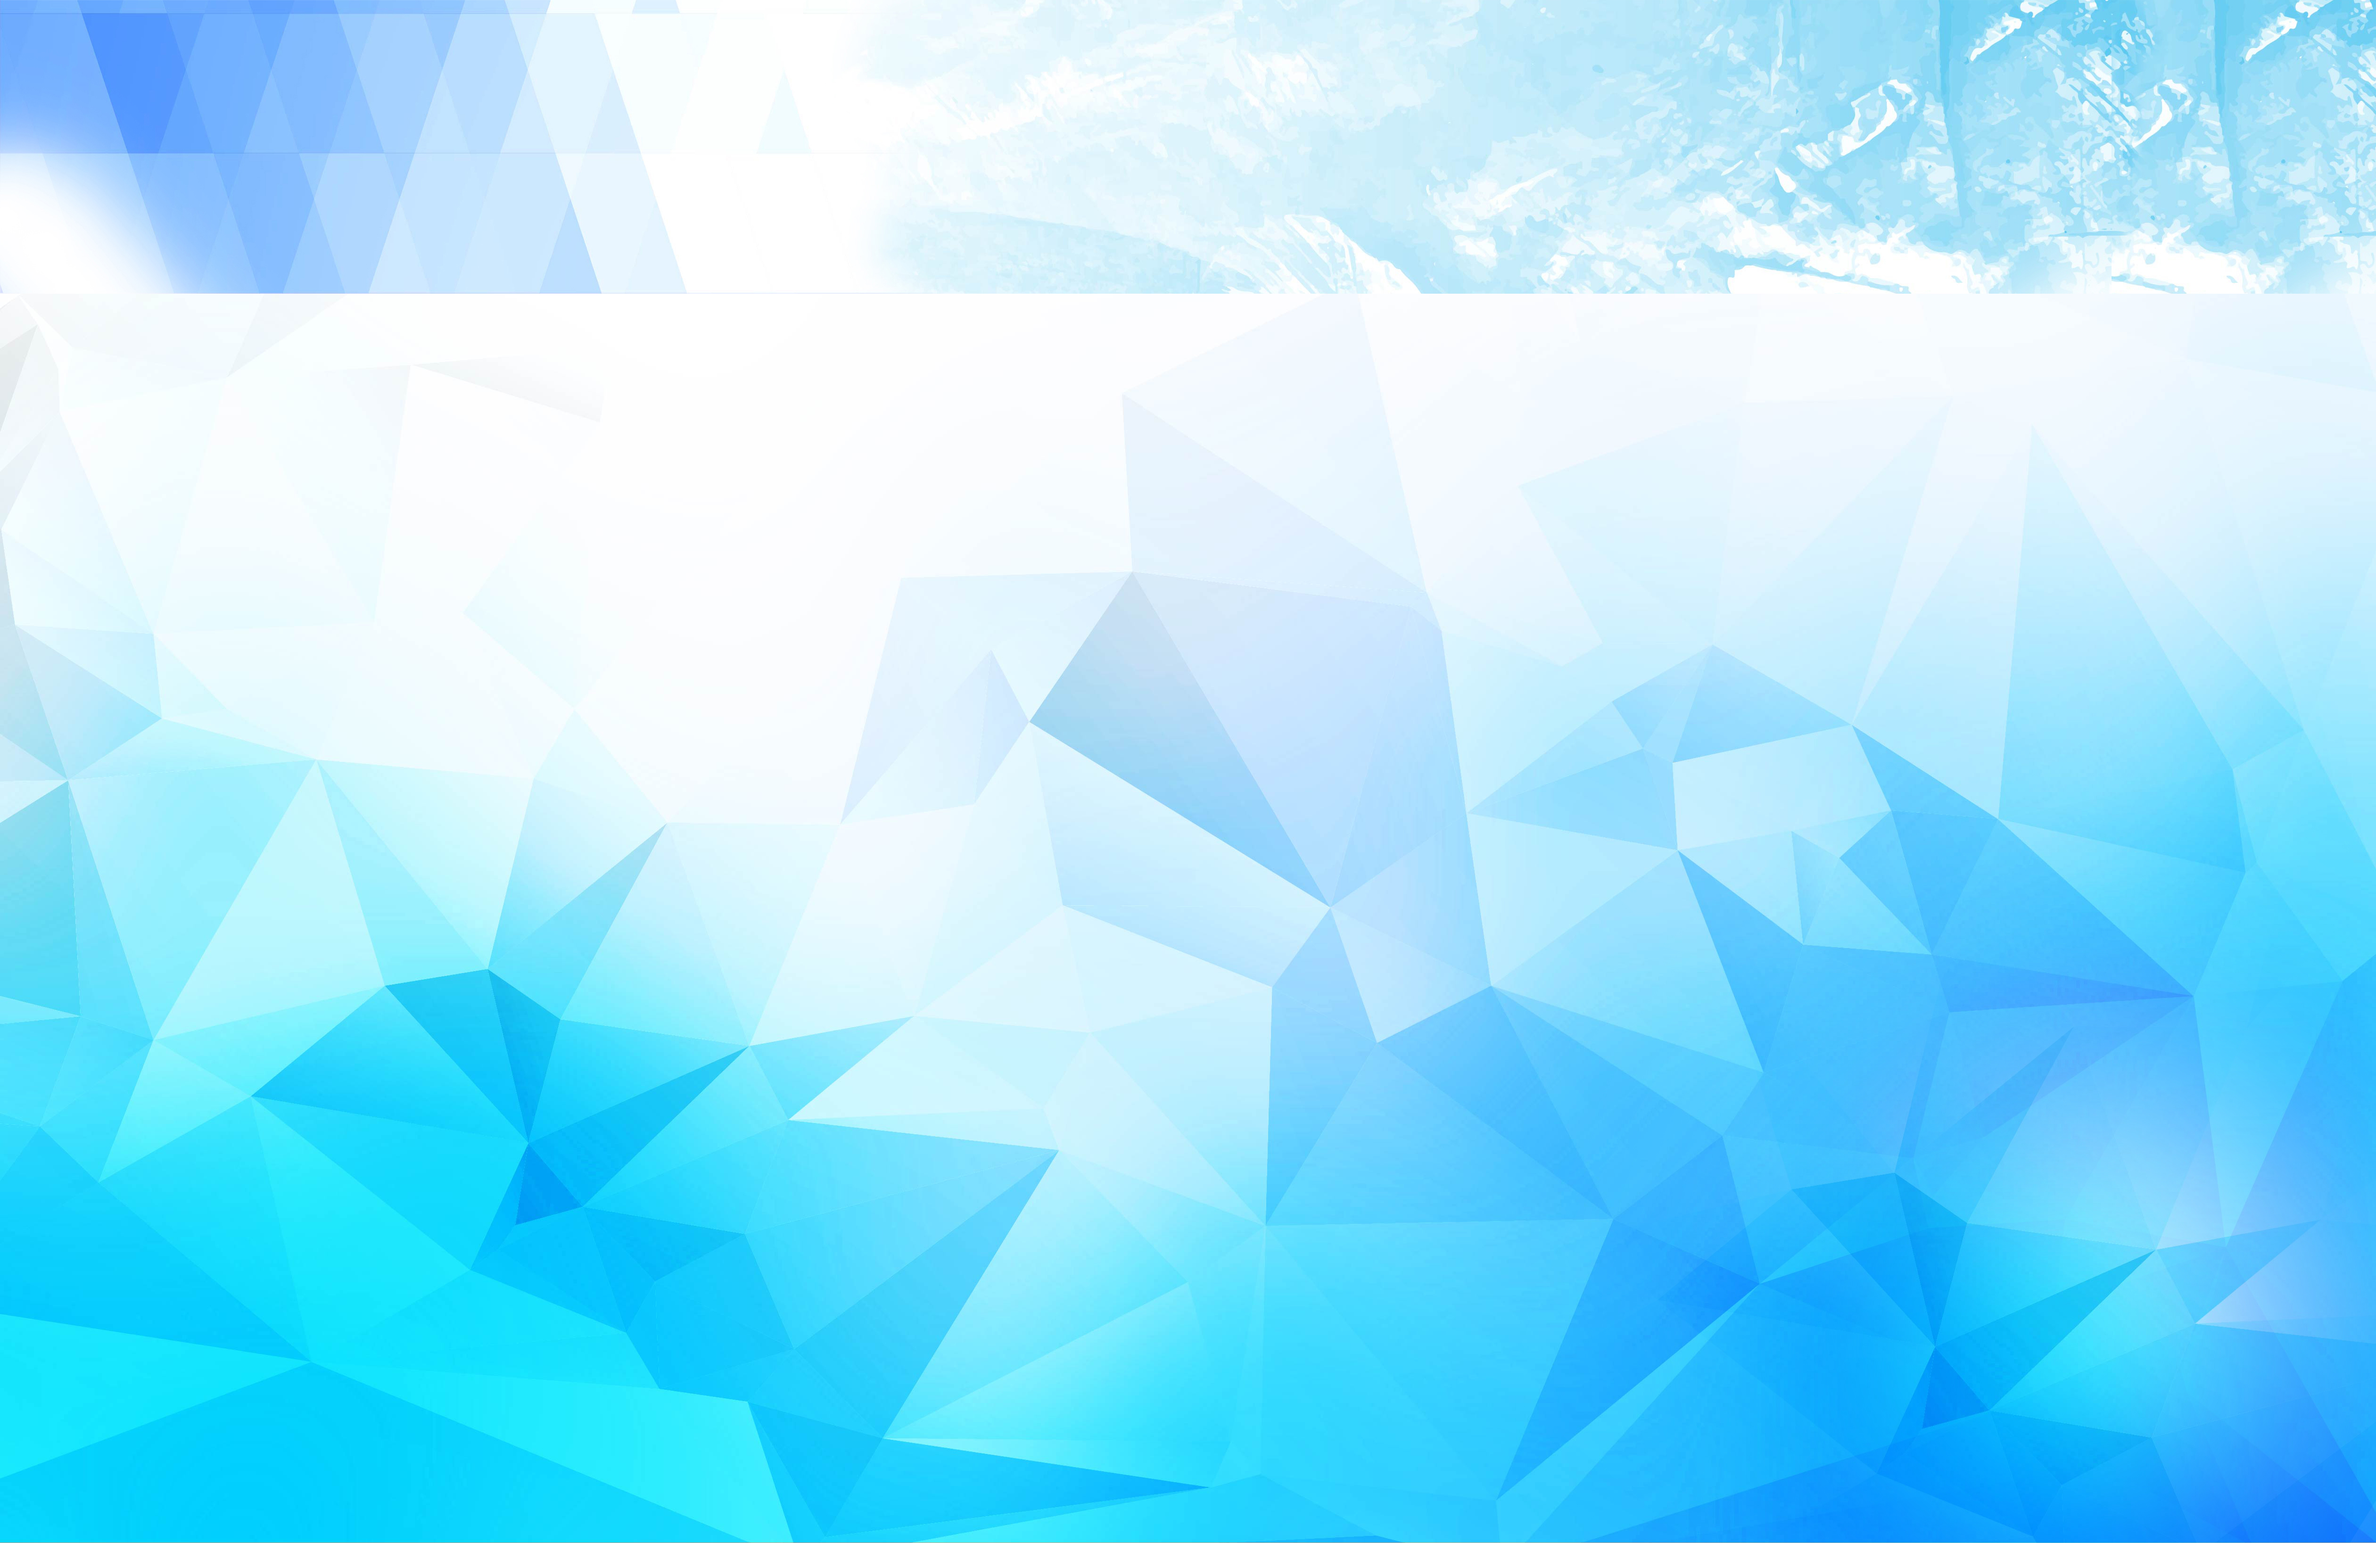
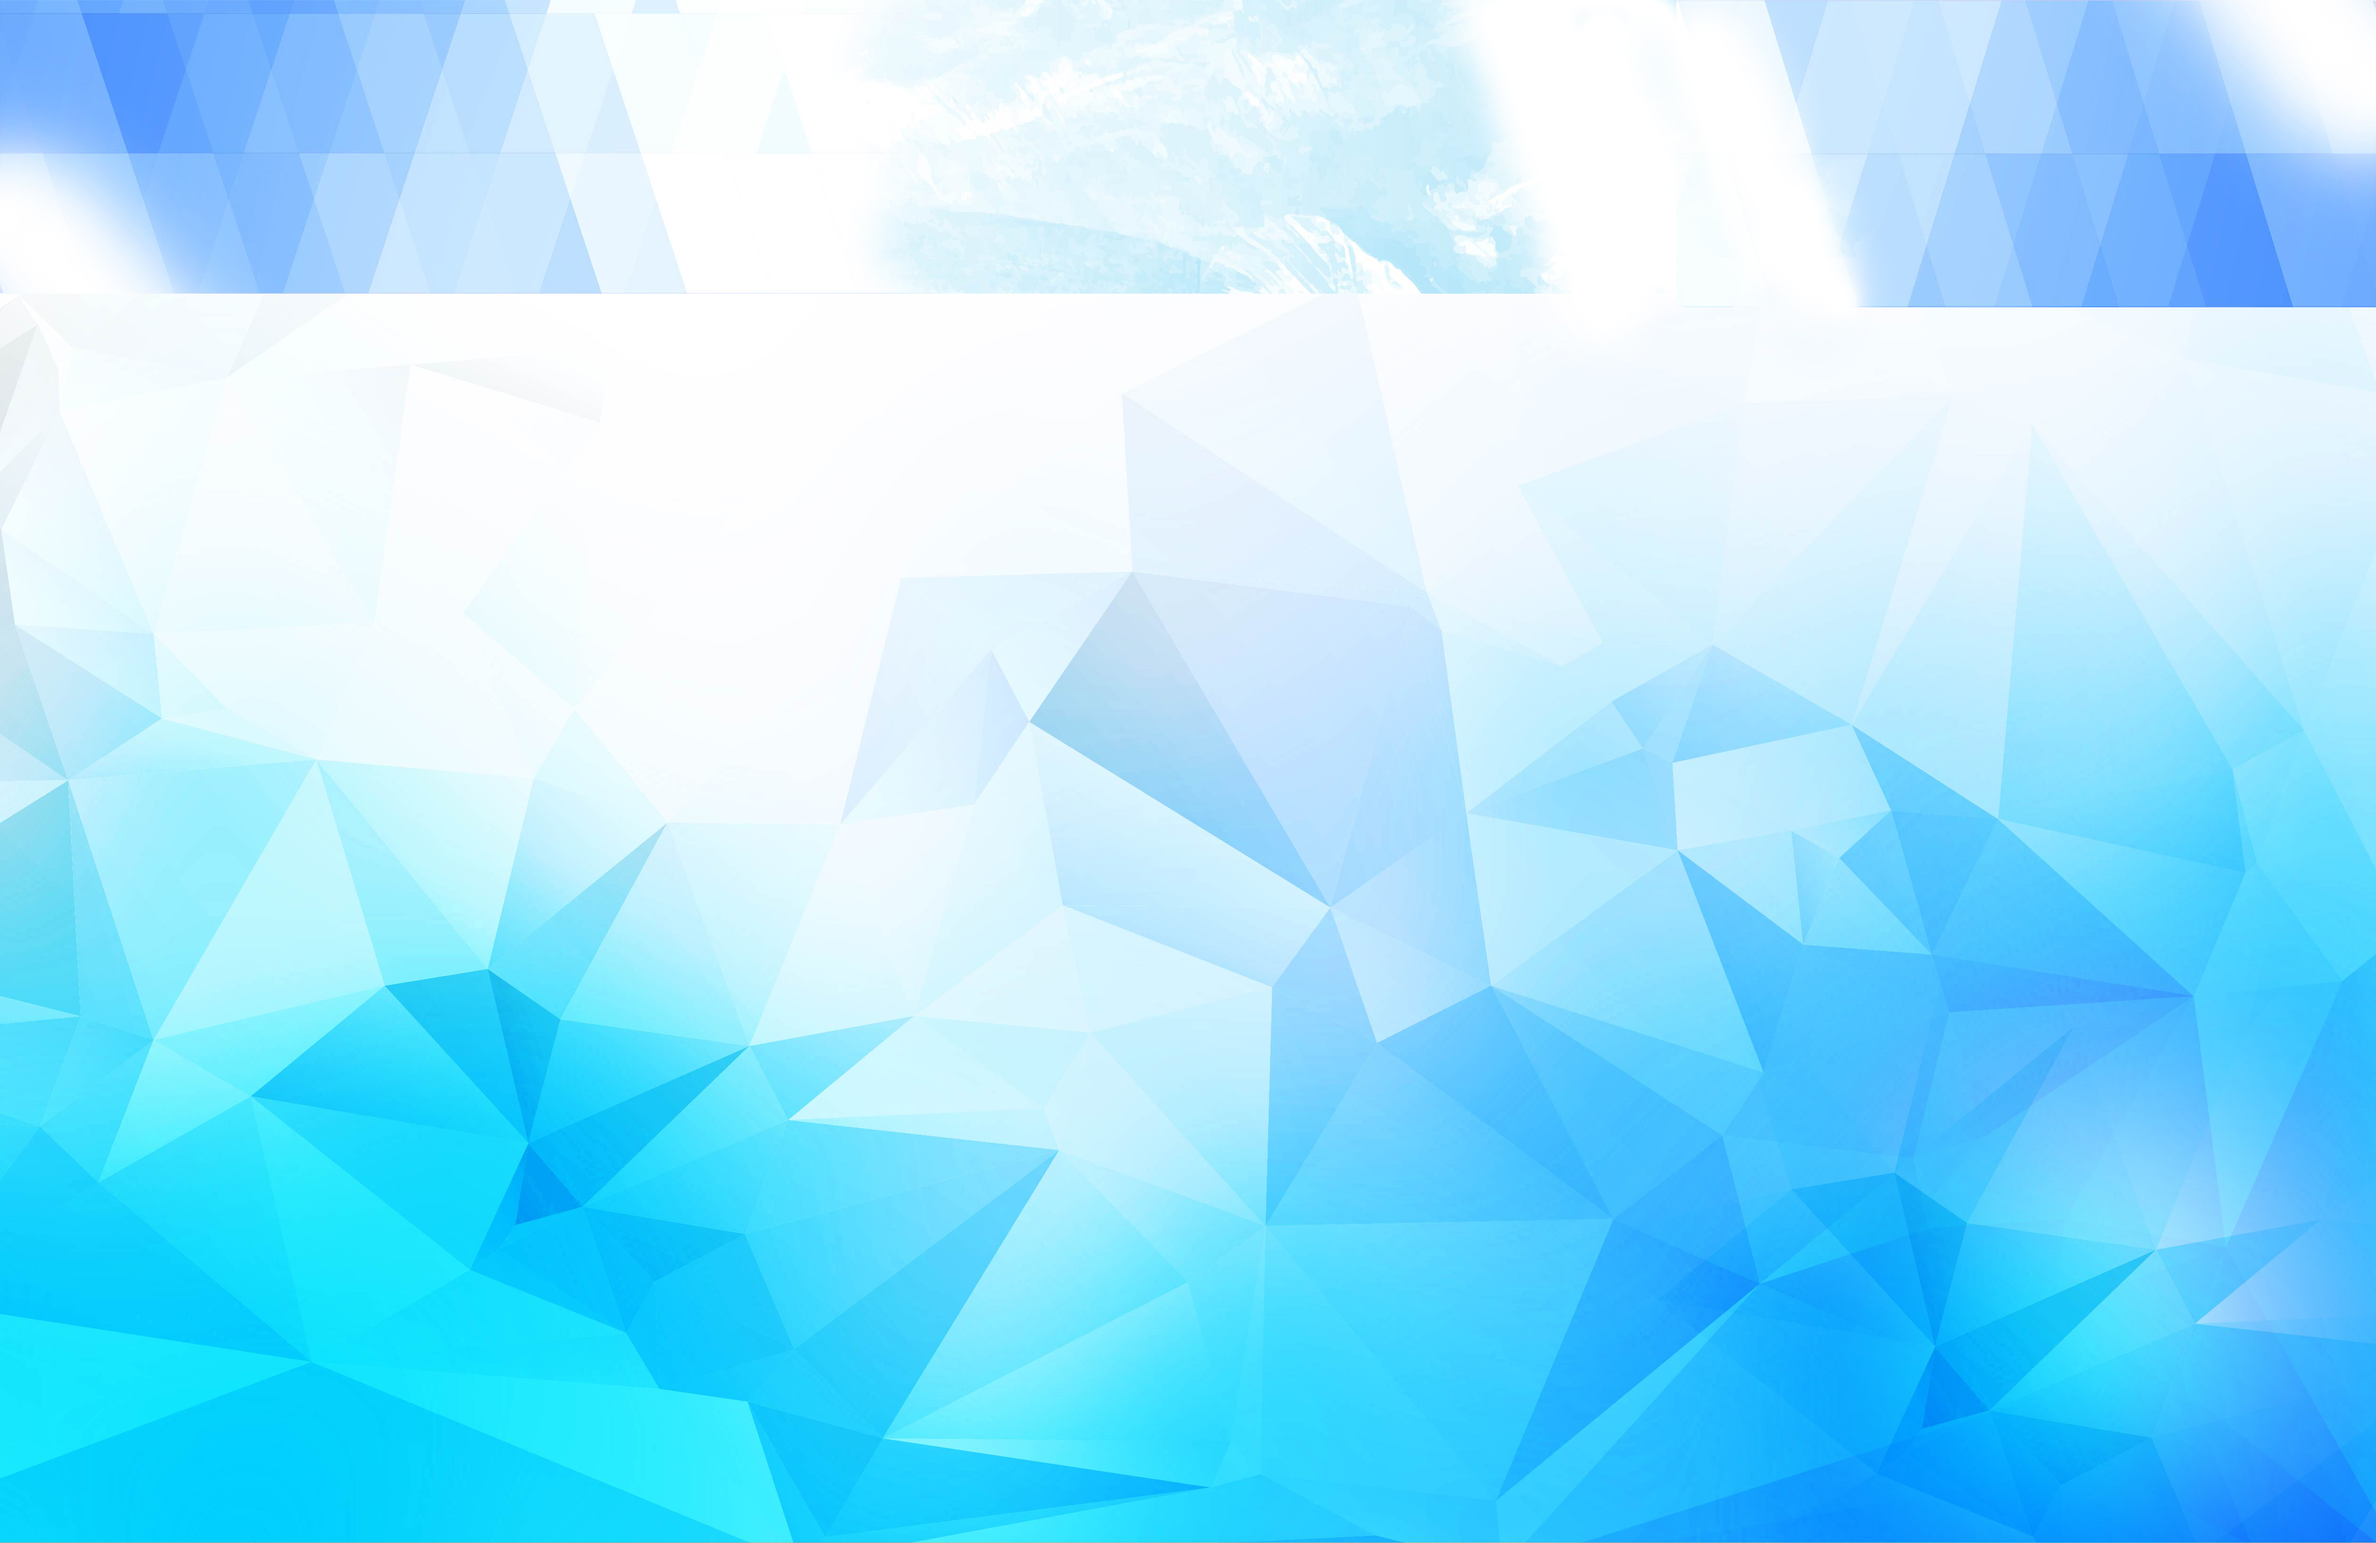
Modified backgroundPane.jpg for scanSpool.fxml and added logs in getInfoAction() for Hibernate query statistics

Changed region(s): [[0.5919, 0.0, 1.0, 0.2181]]

diff --git a/src/main/java/gui/controller/ScanController.java b/src/main/java/gui/controller/ScanController.java
@@ -393,6 +393,7 @@ public class ScanController {
         fieldModelRusList.add(new FieldModel(tfCode, cbCode, "Код:", CellStyleOption.BASE));
         fieldModelRusList.add(new FieldModel(tfLR, cbLR, "", CellStyleOption.ENLARGED));
         fieldModelRusList.add(new FieldModel(tfNumberSpool, cbNumberSpool, "№ кат.", CellStyleOption.BASE));
+        fieldModelRusList.add(new FieldModel(tfPart, cbPart, "№ партии:", CellStyleOption.BASE));
         fieldModelRusList.add(new FieldModel(tfWelds, cbWelds, "Cварка:", CellStyleOption.BASE));
         fieldModelRusList.add(new FieldModel(tfDatePrint, cbDate, "Дата:", CellStyleOption.BASE));
 
@@ -421,7 +422,7 @@ public class ScanController {
 
     /**
      * Отобразить катушки за заданный период времени
-     * */
+     */
     public void dateBetweenAction() {
         tableSpool.clear();
         if (dateStart.getDateTimeValue() == null && dateEnd.getDateTimeValue() == null) {
@@ -443,7 +444,7 @@ public class ScanController {
 
     /**
      * Очистить таблицу и поля DatePickers
-     * */
+     */
     public void clearTableAndDatePicker() {
         tableSpool.clear();
         dateStart.setDateTimeValue(null);
@@ -508,7 +509,7 @@ public class ScanController {
 
     /**
      * Отображение текущего времени
-     * */
+     */
     private void initClock() {
         Timeline clock = new Timeline(new KeyFrame(Duration.ZERO, e -> {
             DateTimeFormatter formatter = DateTimeFormatter.ofPattern("dd-MM-yyyy HH:mm:ss");
@@ -525,7 +526,7 @@ public class ScanController {
 
     /**
      * Добавление новой катушки
-     * */
+     */
     @FXML
     public void addSpool() {
         FXMLLoader loader = new FXMLLoader();
@@ -616,7 +617,7 @@ public class ScanController {
 
     /**
      * Очистка TextFields
-     * */
+     */
     public void clearFields() {
         tfTypeSpool.clear();
         tfCode.clear();
@@ -647,7 +648,7 @@ public class ScanController {
 
     /**
      * Формирование обычной бирки в Excel
-     * */
+     */
     public File exportToExcel() {
         try {
             InputStream file = getClass().getClassLoader().getResourceAsStream("template/Export.xlsx");
@@ -727,7 +728,7 @@ public class ScanController {
 
     /**
      * Формирование QR-Code в Excel
-     * */
+     */
     public File toFormQrCode() {
         try {
             InputStream file = getClass().getClassLoader().getResourceAsStream("template/QR-Code.xlsx");
@@ -832,7 +833,7 @@ public class ScanController {
 
     /**
      * Просмотр QR-Code
-     * */
+     */
     public void generateQrCode() throws IOException {
         if (NodeUtils.checkSelectedAndEmptyFields(vBoxCbList0, vBoxCbList1, vBoxTfList0, vBoxTfList1)) {
             Desktop.getDesktop().open(toFormQrCode());
@@ -843,7 +844,7 @@ public class ScanController {
 
     /**
      * Печать QR-Code средствами Excel на активный принтер
-     * */
+     */
     public void printQrCode() throws IOException {
         if (NodeUtils.checkSelectedAndEmptyFields(vBoxCbList0, vBoxCbList1, vBoxTfList0, vBoxTfList1)) {
             Desktop.getDesktop().print(toFormQrCode());
@@ -854,7 +855,7 @@ public class ScanController {
 
     /**
      * Печать обычной бирки средствами Excel на активный принтер
-     * */
+     */
     public void printLabel() throws IOException {
         if (NodeUtils.checkSelectedAndEmptyFields(vBoxCbList0, vBoxCbList1, vBoxTfList0, vBoxTfList1)) {
             Desktop.getDesktop().print(exportToExcel());
@@ -865,7 +866,7 @@ public class ScanController {
 
     /**
      * Просмотр обычной бирки
-     * */
+     */
     public void toFormLabel() throws IOException {
         if (NodeUtils.checkSelectedAndEmptyFields(vBoxCbList0, vBoxCbList1, vBoxTfList0, vBoxTfList1)) {
             Desktop.getDesktop().open(exportToExcel());
@@ -873,9 +874,10 @@ public class ScanController {
             TextFieldUtil.alertWarning(listAlert.get(1));
         }
     }
+
     /**
      * Инициализация таблицы
-     * */
+     */
     public void initializeTableColumns() {
         tcNumberSpool.setCellValueFactory(new PropertyValueFactory<>("numberSpool"));
         tcCodeProvider.setCellValueFactory(new PropertyValueFactory<>("code"));
@@ -915,10 +917,13 @@ public class ScanController {
 
     /**
      * Получить информацию о катушке,если таковой в БД нет - добавить
-     * */
+     */
+
     public void getInfoAction() {
         new Thread(() -> {
             try {
+                System.out.println(LocalDateTime.now()
+                        .format(DateTimeFormatter.ofPattern("dd-MM-yyyy HH:mm:ss")) + " Method started");
                 loadSpinner.setVisible(true);
                 lblWait.setVisible(true);
                 lblLoad.setVisible(true);
@@ -927,13 +932,15 @@ public class ScanController {
                 if (!barcodeSpool.getText().isEmpty()) {
                     List<TestLabel> testLabelList = TestLabelRepository.
                             getTestLabel("http://localhost:8097/api/label/spool/" + barcodeSpool.getText());
+                    System.out.println(LocalDateTime.now()
+                            .format(DateTimeFormatter.ofPattern("dd-MM-yyyy HH:mm:ss")) + " Response from the server");
                     if (testLabelList != null && testLabelList.isEmpty()) {
                         Constants.SPOOL_NUMBER = barcodeSpool.getText();
                         Platform.runLater(this::addSpool);
                         return;
-                    } else{
-                       Platform.runLater(() ->  setCheckBoxesWithLabel(TemplatesLabelsRepository
-                               .findByIdCode(Long.valueOf(testLabelList.get(0).getCode())).get(0)));
+                    } else {
+                        Platform.runLater(() -> setCheckBoxesWithLabel(TemplatesLabelsRepository
+                                .findByIdCode(Long.valueOf(testLabelList.get(0).getCode())).get(0)));
                     }
                     LOGGER.info("Spool number scan: " + barcodeSpool.getText());
 
@@ -985,7 +992,8 @@ public class ScanController {
                         tabInfoSpool.setText("Информация о катушке: №" + tfNumberSpool.getText());
                     });
                     barcodeSpool.setText("");
-                    System.out.println(LocalDateTime.now() + " Method ended");
+                    System.out.println(LocalDateTime.now().
+                            format(DateTimeFormatter.ofPattern("dd-MM-yyyy HH:mm:ss")) + " Method ended");
                 } else if (barcodeSpool.getText().isEmpty()) {
                     barcodeSpool.getStylesheets().clear();
                     barcodeSpool.getStylesheets().add("/css/jfx_error.css");
@@ -1020,7 +1028,7 @@ public class ScanController {
 
     /**
      * Метод для выборки компонентов(TextField,CheckBox) согласно заданному шаблону этикетки
-     * */
+     */
     private void setCheckBoxesWithLabel(TemplatesLabels templatesLabels) {
         try {
 //            for (Field field : templatesLabels.getClass().getFields()) {
@@ -1032,18 +1040,22 @@ public class ScanController {
             Field[] fields = templatesLabels.getClass().getFields();
             for (Map.Entry<String, LabelField> entry : labelFieldMap.entrySet()) {
                 Field field = Arrays.stream(fields).filter(f -> f.getName().equals(entry.getKey())).findFirst().orElse(null);
-                if(field == null) {
+                if (field == null) {
                     entry.getValue().getLabelTextField().setEditable(false);
                     entry.getValue().getLabelCheckBox().setDisable(false);
-                }else{
-                    entry.getValue().getLabelTextField().setEditable((Boolean)field.get(templatesLabels));
-                    entry.getValue().getLabelCheckBox().setDisable(!(Boolean)field.get(templatesLabels));
-                    entry.getValue().getLabelCheckBox().setSelected((Boolean)field.get(templatesLabels));
+                } else {
+                    entry.getValue().getLabelTextField().setEditable((Boolean) field.get(templatesLabels));
+                    entry.getValue().getLabelCheckBox().setDisable(!(Boolean) field.get(templatesLabels));
+                    entry.getValue().getLabelCheckBox().setSelected((Boolean) field.get(templatesLabels));
                 }
             }
-            if (templatesLabels.getLanguageLabel()){
+            if (templatesLabels.getLanguageLabel()) {
                 cbConsumer.setValue("ENG");
-            }else cbConsumer.setValue("РУС");
+                cbTorsion.setDisable(false);
+            } else {
+                cbTorsion.setDisable(true);
+                cbConsumer.setValue("РУС");
+            }
         } catch (Exception e) {
             System.out.println("Field probably has private access");
             e.printStackTrace();
@@ -1052,18 +1064,18 @@ public class ScanController {
 
     /**
      * Мапа(ассоциативный массив) для сопоставления номера катушки с таблицей шаблонов
-     * */
+     */
     private Map<String, LabelField> createLabelFieldMap() {
         Map<String, LabelField> labelFields = new HashMap<>();
-        labelFields.put("construct", new LabelField(cbConstruct,tfConstruct));
-        labelFields.put("code", new LabelField(cbCode,tfCode));
-        labelFields.put("lr", new LabelField(cbLR,tfLR));
-        labelFields.put("numberSpool", new LabelField(cbNumberSpool,tfNumberSpool));
-        labelFields.put("datePrint", new LabelField(cbDate,tfDatePrint));
-        labelFields.put("part", new LabelField(cbPart,tfPart));
-        labelFields.put("lot", new LabelField(cbLot,tfLot));
-        labelFields.put("welds", new LabelField(cbWelds,tfWelds));
-        labelFields.put("lengthSpool", new LabelField(cbLength,tfLength));
+        labelFields.put("construct", new LabelField(cbConstruct, tfConstruct));
+        labelFields.put("code", new LabelField(cbCode, tfCode));
+        labelFields.put("lr", new LabelField(cbLR, tfLR));
+        labelFields.put("numberSpool", new LabelField(cbNumberSpool, tfNumberSpool));
+        labelFields.put("part", new LabelField(cbPart, tfPart));
+        labelFields.put("lot", new LabelField(cbLot, tfLot));
+        labelFields.put("datePrint", new LabelField(cbDate, tfDatePrint));
+        labelFields.put("welds", new LabelField(cbWelds, tfWelds));
+        labelFields.put("lengthSpool", new LabelField(cbLength, tfLength));
 
         return labelFields;
     }
